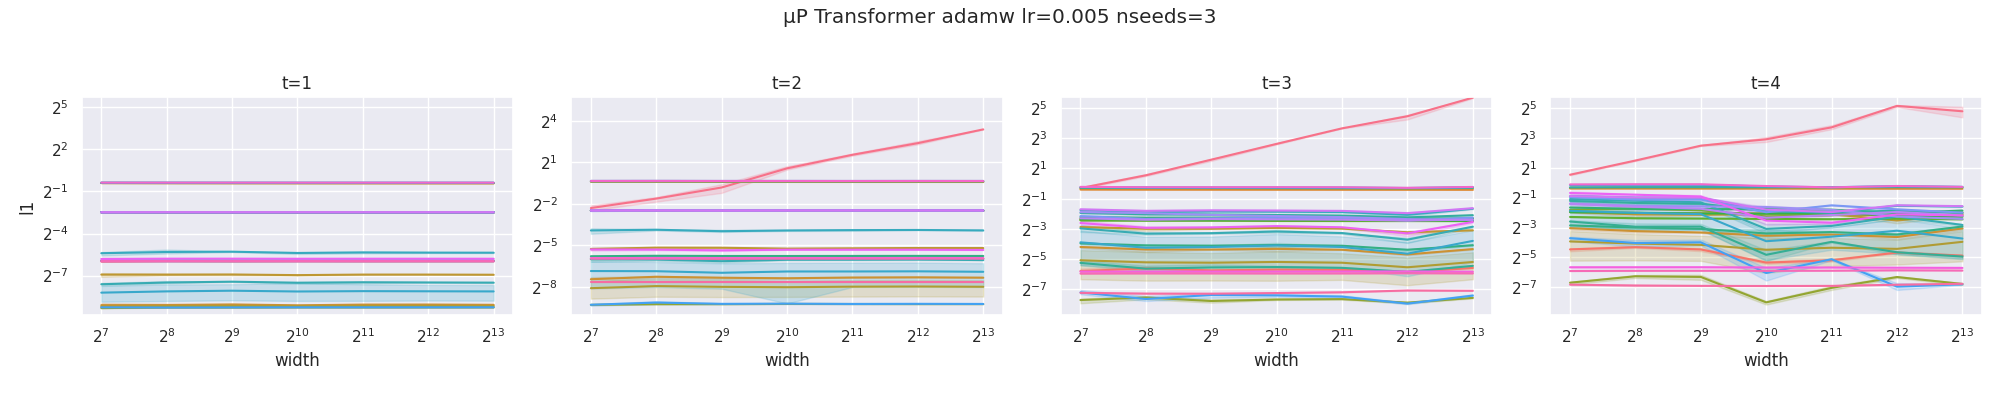
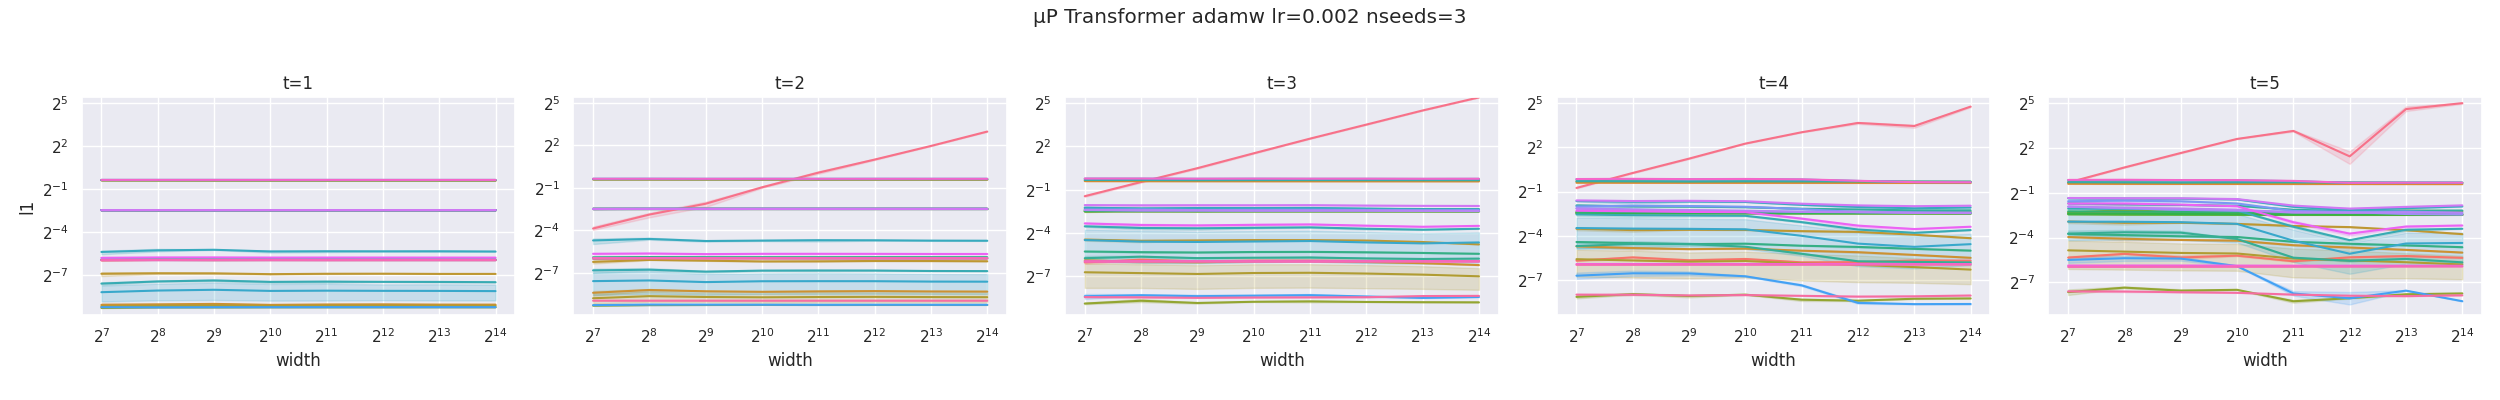
more width

diff --git a/olmo/scaling/mup_coord_check.py b/olmo/scaling/mup_coord_check.py
@@ -94,7 +94,7 @@ def coord_check(mup, lr, optimizer, batch_size, nsteps, nseeds, args, plotdir=""
         return f
 
     optimizer = optimizer.replace("mu", "")
-    widths = 2 ** np.arange(7, 14)
+    widths = 2 ** np.arange(7, 15)
     models = {w: gen(w, standparam=not mup) for w in widths}
 
     train_config = TrainConfig.load(args.config_path)
